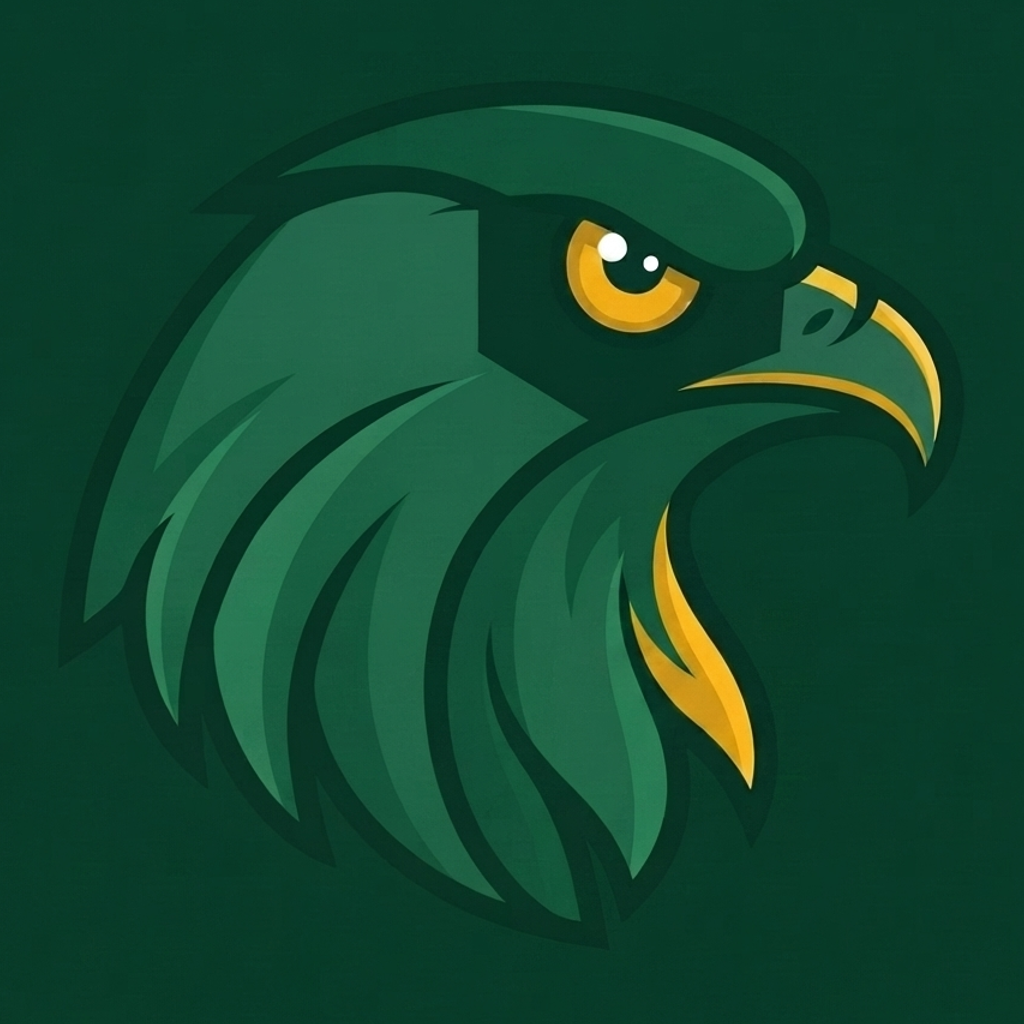
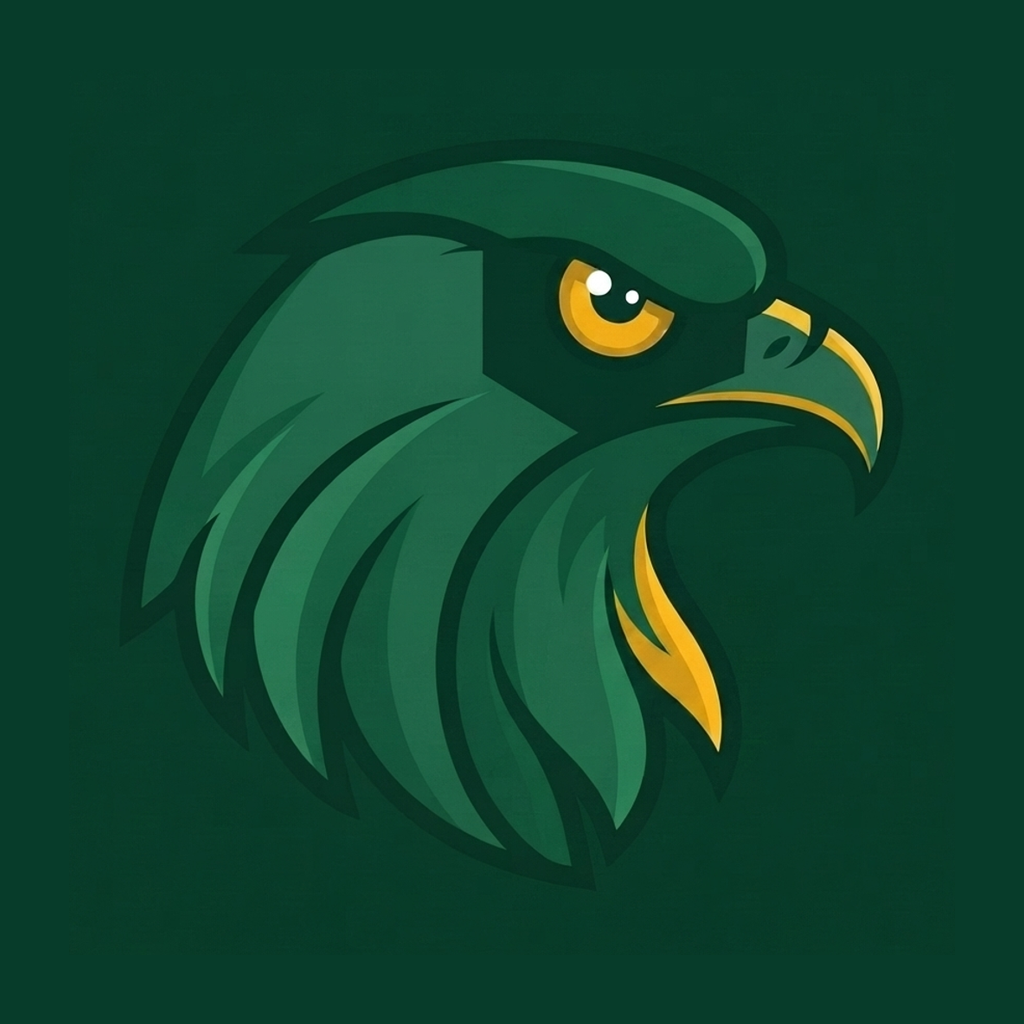
The eagle sits smaller in its tile, and native can build a Play AAB
ICON. Three Hawkeye icons on one home screen were three different sizes,
and all of them crowded their tile. They are now the same, at ~72.5% of the
visible tile.

Android adaptive icons are why they disagreed. The foreground is drawn on a
108dp canvas of which only the middle 72dp is guaranteed to show, and the
two Android builds fed it differently: Capacitor squeezes its PNG through an
<inset 16.7%> first, native uses the foreground as the whole canvas. So the
mark's share of a source PNG is NOT its share of what a launcher paints, and
the three assets had been sized as if it were.

I first set the target by computing each one's rendered size and taking the
midpoint — and got it wrong: the model said the PWA icon was the largest,
the phone said it was much smaller. The measurement of the source files was
right; the assumption about how Chrome maps a maskable icon onto the
adaptive canvas was not. Target taken from the device instead.

Resized rather than redrawn: there is no vector master for the eagle here,
so scripts/resize_icon_mark.mjs scales the whole tile about its centre and
refills the border with the tile's own field (or transparency). One
resample, mark untouched, still centred. ic_launcher_round.png is excluded —
it is pre-composed on its own disc with transparent corners, so the
measurement finds no background to exclude and scaling it would shrink the
disc and leave a ring.

Deployed and verified on hawkeye.com.ng: every icon reads back at 72.4-72.8%.
[…]

diff --git a/native/plugins/with-release-signing.js b/native/plugins/with-release-signing.js
@@ -1,0 +1,87 @@
+/**
+ * Sign release builds with the UPLOAD key — but only when it is actually there.
+ *
+ * Expo's template signs release with the DEBUG keystore, which is deliberate for
+ * the team APK: that build carries the `.dev` package the dev Maps key is bound
+ * to, and re-signing it would break the map for everyone testing. So this cannot
+ * simply hard-swap the config — a Play build needs the upload key and a team
+ * build must keep the debug one, from the same checked-out tree.
+ *
+ * A CONFIG PLUGIN RATHER THAN A HAND EDIT, because `expo prebuild --clean`
+ * regenerates android/ from scratch and would silently drop a patched
+ * build.gradle. A hand-edited signing block survives exactly until the next
+ * prebuild, and the failure mode is a release quietly signed with the debug key
+ * — which Play rejects at best and, if it ever got through, would be
+ * unrecoverable (the upload key cannot be changed retroactively without
+ * Google's help).
+ *
+ * Gradle picks the key at build time from properties, so no secret is ever in
+ * this file, in app.json, or in the repository:
+ *
+ *   HAWKEYE_UPLOAD_STORE_FILE   absolute path to the .keystore
+ *   HAWKEYE_UPLOAD_STORE_PASSWORD
+ *   HAWKEYE_UPLOAD_KEY_ALIAS
+ *   HAWKEYE_UPLOAD_KEY_PASSWORD
+ *
+ * scripts/build_play_aab.sh reads those from ~/hawkeye-secrets and passes them
+ * in. With none set, release falls back to debug and the team APK is unchanged.
+ */
+const { withAppBuildGradle } = require('@expo/config-plugins');
+
+const SIGNING_CONFIG = `
+        // Injected by plugins/with-release-signing.js — see that file for why
+        // this is a plugin and not an edit to this generated file.
+        upload {
+            if (project.hasProperty('HAWKEYE_UPLOAD_STORE_FILE')) {
+                storeFile file(HAWKEYE_UPLOAD_STORE_FILE)
+                storePassword HAWKEYE_UPLOAD_STORE_PASSWORD
+                keyAlias HAWKEYE_UPLOAD_KEY_ALIAS
+                keyPassword HAWKEYE_UPLOAD_KEY_PASSWORD
+            }
+        }`;
+
+/** release { signingConfig ... } chosen at configuration time. */
+const RELEASE_PICK = `
+            // The upload key when it is supplied, the debug key otherwise. The
+            // team APK builds with no properties set and keeps its .dev signing;
+            // a Play build supplies them and gets the upload key.
+            signingConfig project.hasProperty('HAWKEYE_UPLOAD_STORE_FILE') ? signingConfigs.upload : signingConfigs.debug`;
+
+module.exports = function withReleaseSigning(config) {
+  return withAppBuildGradle(config, (cfg) => {
+    let src = cfg.modResults.contents;
+
+    // Idempotent: prebuild can run many times, and a second copy of the block
+    // would be a gradle syntax error rather than a no-op.
+    if (!src.includes('HAWKEYE_UPLOAD_STORE_FILE')) {
+      const anchor = `        debug {
+            storeFile file('debug.keystore')
+            storePassword 'android'
+            keyAlias 'androiddebugkey'
+            keyPassword 'android'
+        }`;
+      if (!src.includes(anchor)) {
+        throw new Error(
+          '[with-release-signing] the debug signingConfig block was not found in ' +
+          'app/build.gradle. Expo changed the template — update this plugin rather ' +
+          'than letting a release build fall back to debug signing unnoticed.',
+        );
+      }
+      src = src.replace(anchor, anchor + SIGNING_CONFIG);
+
+      const relAnchor = `            // Caution! In production, you need to generate your own keystore file.
+            // see https://reactnative.dev/docs/signed-apk-android.
+            signingConfig signingConfigs.debug`;
+      if (!src.includes(relAnchor)) {
+        throw new Error(
+          '[with-release-signing] the release buildType did not look as expected. ' +
+          'Refusing to guess: an unsigned or debug-signed AAB is worse than a failed build.',
+        );
+      }
+      src = src.replace(relAnchor, RELEASE_PICK);
+    }
+
+    cfg.modResults.contents = src;
+    return cfg;
+  });
+};

diff --git a/app/sw.js b/app/sw.js
@@ -5,7 +5,7 @@
 // political_data.json forever; only a new CACHE name (activate drops the old
 // caches) makes it re-fetch. A candidate list that cannot reach installed users
 // is not published.
-const CACHE = 'hawkeye-v273';
+const CACHE = 'hawkeye-v274';
 // NOTE: vendor/tesseract (~6 MB per client) is deliberately NOT precached — it
 // lazy-loads on first sheet capture and the browser's HTTP cache keeps it.
 // PRECACHE ONLY THE REAL SHELL. This list is re-downloaded IN FULL by every
